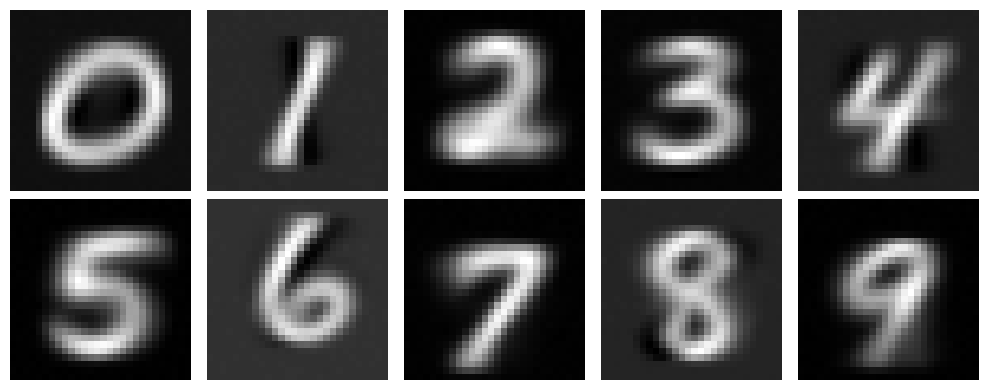
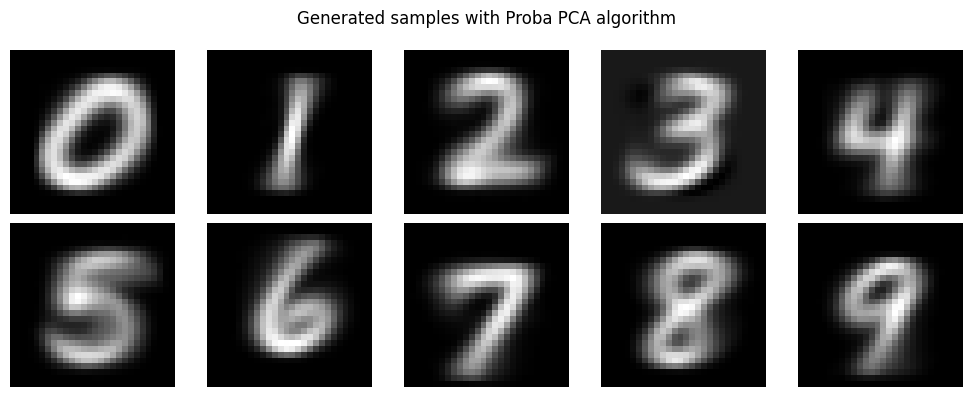
update ppca results

diff --git a/diffusion/ppca/README.md b/diffusion/ppca/README.md
@@ -6,6 +6,12 @@ is to consider the PCA on some dataset, and to add noise to the decomposed matri
 to generate samples that were not in the training set, 
 but that share the same principal components with their respective amplitude.
 
+First SVD components :
+
+![image](img/svd_mnist.png)
+
+Using Probabilistic PCA :
+
 ![image](img/ppca_mnist.png)
 
 ## Using Singular Value Decomposition
